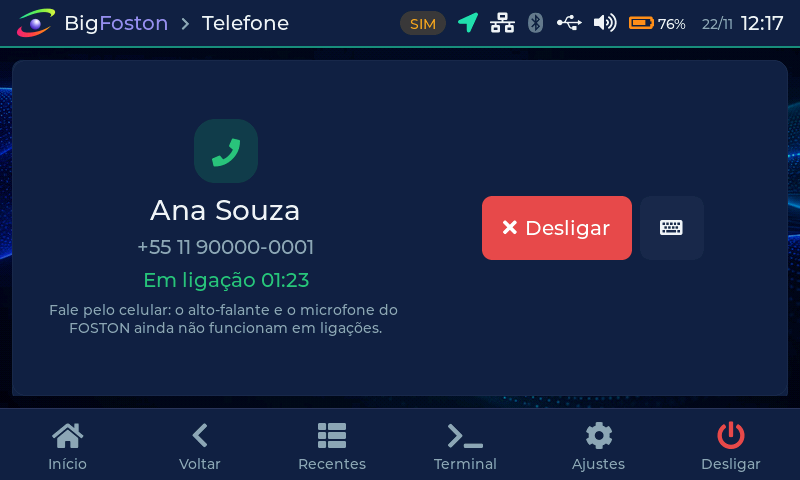
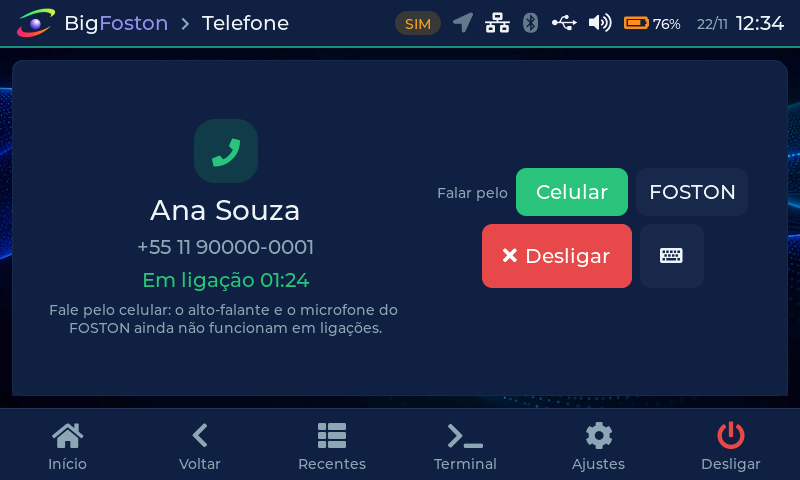
Telefone: chamadas reconhecidas (":OK" do BlueALSA) e escolha da voz
- bfphone: o BlueALSA repassa as respostas finais como ":OK"; sem aceitar o prefixo a
  lista de chamadas (AT+CLCC) nunca era confirmada e a ligação não aparecia no FOSTON.
- Painel da ligação: "Falar pelo Celular | FOSTON". O FOSTON tem microfone e
  alto-falante, mas a voz passa pelo DSP, ainda não portado; o bfphone informa
  voice_foston=0 e o app explica em vez de deixar a ligação muda.
- docs/phone/02: mapa de memória do DSP e protocolo da caixa postal do wavedev_drv.

Testado com uma ligação real: a chamada aparece com o nome da agenda; ao reconectar no
meio da ligação o celular abriu o canal de voz duas vezes e a voz ficou no celular.

Changed region(s): [[0.5312, 0.3438, 0.9375, 0.625], [0.4688, 0.0312, 1.0, 0.0625], [0.1875, 0.5625, 0.4062, 0.625]]

diff --git a/src/ui/screens/scr_phone.c b/src/ui/screens/scr_phone.c
@@ -28,7 +28,7 @@ enum { TAB_DIAL, TAB_CONTACTS, TAB_RECENTS, TAB_MSGS, NTABS };
 
 static lv_obj_t *root, *tabbar, *tab_btn[NTABS], *body, *status_lbl, *status2_lbl, *call_panel;
 static lv_obj_t *num_lbl, *search_ta, *search_kb, *list, *more_lbl, *sync_lbl;
-static lv_obj_t *cp_name, *cp_num, *cp_state, *cp_answer, *cp_keys, *cp_dtmf;
+static lv_obj_t *cp_name, *cp_num, *cp_state, *cp_answer, *cp_keys, *cp_dtmf, *cp_note, *cp_vphone, *cp_vfoston;
 static lv_timer_t *tick;
 static ph_info_t cur;
 static int tab;
@@ -561,6 +561,19 @@ static void on_answer(lv_event_t *e) { (void)e; ph_cmd("answer"); }
 static void on_hangup(lv_event_t *e) { (void)e; ph_cmd("hangup"); }
 static void on_dtmf(lv_event_t *e) { ph_cmd("dtmf %s", (const char *)lv_event_get_user_data(e)); }
 
+/* falar pelo celular ou pelo FOSTON (alto-falante e microfone do aparelho) */
+static void on_voice(lv_event_t *e)
+{
+    bool foston = lv_event_get_user_data(e) != NULL;
+    if(foston && !cur.voice_foston) {
+        const char *btns[] = { tr(S_CLOSE) };
+        dialog_open(BF_SYMBOL_INFO, lv_color_hex(C_PHONE), tr(S_PH_VOICE_FOSTON), tr(S_PH_VOICE_SOON), btns, 1, 0, -1,
+                    NULL, NULL);
+        return;
+    }
+    ph_cmd("voice %s", foston ? "foston" : "phone");
+}
+
 static void on_keys(lv_event_t *e)
 {
     (void)e;
@@ -588,15 +601,30 @@ static void build_call_panel(void)
     lv_obj_set_style_text_align(cp_name, LV_TEXT_ALIGN_CENTER, 0);
     cp_num = bf_label(left, "", BF_FONT_M, p->text_dim);
     cp_state = bf_label(left, "", BF_FONT_M, lv_color_hex(C_PHONE));
-    lv_obj_t *note = bf_label(left, tr(S_PH_VOICE_NOTE), BF_FONT_S, p->text_dim);
-    lv_obj_set_width(note, 370);
-    lv_label_set_long_mode(note, LV_LABEL_LONG_WRAP);
-    lv_obj_set_style_text_align(note, LV_TEXT_ALIGN_CENTER, 0);
+    cp_note = bf_label(left, tr(S_PH_VOICE_NOTE), BF_FONT_S, p->text_dim);
+    lv_obj_set_width(cp_note, 370);
+    lv_label_set_long_mode(cp_note, LV_LABEL_LONG_WRAP);
+    lv_obj_set_style_text_align(cp_note, LV_TEXT_ALIGN_CENTER, 0);
     lv_obj_t *right = bf_plain(call_panel);
     lv_obj_set_size(right, 340, LV_SIZE_CONTENT);
     lv_obj_set_flex_flow(right, LV_FLEX_FLOW_COLUMN);
     lv_obj_set_flex_align(right, LV_FLEX_ALIGN_CENTER, LV_FLEX_ALIGN_CENTER, LV_FLEX_ALIGN_CENTER);
     lv_obj_set_style_pad_row(right, BF_SP_S, 0);
+    lv_obj_t *vrow = bf_plain(right);
+    lv_obj_set_size(vrow, LV_PCT(100), LV_SIZE_CONTENT);
+    lv_obj_set_flex_flow(vrow, LV_FLEX_FLOW_ROW);
+    lv_obj_set_flex_align(vrow, LV_FLEX_ALIGN_CENTER, LV_FLEX_ALIGN_CENTER, LV_FLEX_ALIGN_CENTER);
+    lv_obj_set_style_pad_column(vrow, BF_SP_S, 0);
+    bf_label(vrow, tr(S_PH_TALK_ON), BF_FONT_S, p->text_dim);
+    cp_vphone = bf_button(vrow, NULL, tr(S_PH_TALK_PHONE), 0);
+    cp_vfoston = bf_button(vrow, NULL, "FOSTON", 0);
+    for(lv_obj_t *b = cp_vphone; b; b = b == cp_vphone ? cp_vfoston : NULL) {
+        lv_obj_set_size(b, 112, 48);
+        lv_obj_set_style_min_height(b, 0, 0);
+        lv_obj_set_style_bg_color(b, lv_color_hex(C_PHONE), LV_STATE_CHECKED);
+        lv_obj_set_style_text_color(b, lv_color_white(), LV_STATE_CHECKED);
+        lv_obj_add_event_cb(b, on_voice, LV_EVENT_CLICKED, b == cp_vfoston ? (void *)1 : NULL);
+    }
     cp_dtmf = keypad(right, on_dtmf, 96, 44);
     lv_obj_add_flag(cp_dtmf, LV_OBJ_FLAG_HIDDEN);
     lv_obj_t *btns = bf_plain(right);
@@ -645,6 +673,11 @@ static void update_call(void)
         if(c->stat == PH_ACTIVE) lv_obj_remove_flag(cp_keys, LV_OBJ_FLAG_HIDDEN);
         else { lv_obj_add_flag(cp_keys, LV_OBJ_FLAG_HIDDEN); lv_obj_add_flag(cp_dtmf, LV_OBJ_FLAG_HIDDEN); }
     }
+    /* escolha da voz: marca a opção atual */
+    bool on_foston = !cur.voice_phone && cur.voice_foston;
+    if(on_foston) { lv_obj_add_state(cp_vfoston, LV_STATE_CHECKED); lv_obj_remove_state(cp_vphone, LV_STATE_CHECKED); }
+    else { lv_obj_add_state(cp_vphone, LV_STATE_CHECKED); lv_obj_remove_state(cp_vfoston, LV_STATE_CHECKED); }
+    set_text(cp_note, tr(on_foston ? S_PH_VOICE_ON_FOSTON : S_PH_VOICE_NOTE));
     char b[64];
     switch(c->stat) {
     case PH_ACTIVE: {
@@ -778,6 +811,7 @@ const bf_screen_def_t scr_phone_def = { create, destroy, S_APP_PHONE, NULL };
 /* modo --screenshot: abre uma aba */
 void scr_phone_demo(int t)
 {
+    if(t == 10 && cp_vfoston) { lv_obj_send_event(cp_vfoston, LV_EVENT_CLICKED, NULL); return; }
     if(t < 0 || t >= NTABS || !root) return;
     tab = t;
     build_tab();

diff --git a/src/bt/bfphone.c b/src/bt/bfphone.c
@@ -45,6 +45,7 @@
 #define DATADIR  "/mnt/sd/BigFoston/telefone"
 #define HFP_AG   "0000111f-0000-1000-8000-00805f9b34fb"
 #define MAXCALLS 6
+#define VOICE_FOSTON_OK 0                /* 1 quando o caminho de voz do DSP existir */
 
 /* ------------------------------------------------------------------ estado */
 
@@ -91,7 +92,9 @@ static void write_state(void)
     }
     if(st.op[0]) fprintf(f, "operator=%s\n", st.op);
     fprintf(f, "signal=%d\nbattery=%d\nservice=%d\nroam=%d\n", st.signal, st.battery, st.service, st.roam);
-    fprintf(f, "voice=%s\nsco=%d\n", st.voice_phone ? "phone" : "foston", st.sco);
+    /* voice_foston: o FOSTON sabe tocar a voz e captar o microfone (falta o caminho do DSP:
+     * docs/phone/02-audio-da-chamada.md); até lá a voz fica no celular */
+    fprintf(f, "voice=%s\nvoice_foston=%d\nsco=%d\n", st.voice_phone ? "phone" : "foston", VOICE_FOSTON_OK, st.sco);
     for(int i = 0; i < st.ncall; i++)
         fprintf(f, "call=%d|%d|%d|%s|%s\n", st.call[i].idx, st.call[i].dir, st.call[i].stat, st.call[i].num,
                 st.call[i].name);
@@ -292,6 +295,8 @@ static void on_ind(int pos, int v)
 
 static void on_line(char *l)
 {
+    /* o BlueALSA repassa as respostas finais com ':' na frente (":OK", ":ERROR") */
+    while(*l == ':' || *l == ' ') l++;
     if(!strncmp(l, "+CLCC:", 6)) {
         if(nnew >= MAXCALLS) return;
         call_t *c = &newcall[nnew];
@@ -556,6 +561,8 @@ static void command(char *l)
     if(arg) *arg++ = 0;
     if(!strcmp(l, "voice") && arg) {
         st.voice_phone = strcmp(arg, "foston") != 0;
+        /* "foston-teste" deixa o canal de voz aberto mesmo sem o DSP (diagnóstico) */
+        if(!st.voice_phone && !VOICE_FOSTON_OK && strcmp(arg, "foston-teste")) st.voice_phone = 1;
         write_state();
         return;
     }

diff --git a/src/ui/core/phonestat.c b/src/ui/core/phonestat.c
@@ -51,6 +51,7 @@ void ph_read(ph_info_t *p)
         else if(!strcmp(line, "service")) p->service = atoi(v);
         else if(!strcmp(line, "voice")) p->voice_phone = strcmp(v, "foston") != 0;
         else if(!strcmp(line, "sco")) p->sco = atoi(v);
+        else if(!strcmp(line, "voice_foston")) p->voice_foston = atoi(v);
         else if(!strcmp(line, "since")) p->since = (time_t)atol(v);
         else if(!strcmp(line, "sync")) snprintf(p->sync, sizeof p->sync, "%s", v);
         else if(!strcmp(line, "call") && p->ncall < PH_MAXCALLS) {

diff --git a/src/ui/core/screenshot.c b/src/ui/core/screenshot.c
@@ -311,6 +311,8 @@ int screenshot_run(const char *dir)
             pf = fopen(pp, "a");
             if(pf) { fprintf(pf, "call=1|0|0|+55 11 90000-0001|Ana Souza\nsince=%ld\n", (long)time(NULL) - 83); fclose(pf); }
             pump(800); shot("45e-telefone-ligacao");
+            scr_phone_demo(10); pump(300); shot("45g-telefone-falar-pelo-foston");
+            dialog_close_all();
             go(SCR_HOME, 0); pump(100);
             pf = fopen(pp, "w");
             if(pf) {

diff --git a/src/ui/core/phonestat.h b/src/ui/core/phonestat.h
@@ -18,6 +18,7 @@ typedef struct {
     char dev[64], op[48], data[96];   /* nome do celular, operadora, pasta dos dados no cartão */
     int signal, battery, service;     /* 0-5 / 0-5 / 0-1; -1 = desconhecido */
     bool voice_phone, sco;
+    bool voice_foston;                /* o FOSTON já sabe fazer a voz da ligação */
     ph_call_t call[PH_MAXCALLS];
     int ncall;
     time_t since;                     /* início da ligação ativa (0 = nenhuma) */

diff --git a/docs/phone/00-visao-geral.md b/docs/phone/00-visao-geral.md
@@ -13,6 +13,8 @@ histórico e as mensagens podem ser importados do celular.
 |---|---|---|
 | ![Mensagens](../images/ui/45d-telefone-mensagens.png) | ![Ligação](../images/ui/45e-telefone-ligacao.png) | ![Recebida](../images/ui/45f-telefone-chamada-recebida.png) |
 
+![Falar pelo FOSTON](../images/ui/45g-telefone-falar-pelo-foston.png)
+
 (Capturas do simulador, com nomes e números inventados.)
 
 ## Estado (22/11/2026, POCO X4 Pro 5G)
@@ -21,13 +23,15 @@ histórico e as mensagens podem ser importados do celular.
 |---|---|
 | Canal de chamadas (HFP 1.6, o FOSTON é o Hands-Free) | **funcionando**: conecta sozinho com o celular |
 | Sinal, bateria, operadora do celular | **funcionando** (`+CIND`, `+COPS`) |
-| Chamadas: estado, número, nome | **funcionando** (`AT+CLCC`; nome pela agenda importada) |
-| Discar, rediscar, atender, recusar/desligar, DTMF | implementado (`ATD`, `AT+BLDN`, `ATA`, `AT+CHUP`, `AT+VTS`); falta o teste com uma ligação real |
+| Chamadas: estado, número, nome | **funcionando** com uma ligação real (`AT+CLCC`; nome pela agenda importada) |
+| Discar, rediscar, atender, recusar/desligar, DTMF | implementado (`ATD`, `AT+BLDN`, `ATA`, `AT+CHUP`, `AT+VTS`) |
+| Voz mantida no celular | **funcionando**: ao reconectar no meio da ligação o celular abriu o canal de voz duas vezes e o FOSTON desfez as duas |
+| Escolha "Falar pelo: Celular / FOSTON" | no painel da ligação; FOSTON explica que falta o caminho do DSP (`voice_foston=0`) |
 | Aviso de chamada recebida em qualquer tela | implementado (simulador); falta o teste real |
 | Agenda (PBAP) | **funcionando**: 5363 contatos em ~1 min |
 | Histórico de chamadas (PBAP) | **funcionando** |
 | Mensagens SMS (MAP) | implementado; o POCO responde "serviço indisponível" (0xD3) até que o acesso às mensagens seja permitido no celular |
-| **Voz da ligação no FOSTON** | **não**: a voz fica no celular (ver [02-audio-da-chamada.md](02-audio-da-chamada.md)) |
+| **Voz da ligação no FOSTON** | **não**: o aparelho tem microfone e alto-falante, mas a voz passa pelo DSP, ainda não portado (ver [02-audio-da-chamada.md](02-audio-da-chamada.md)) |
 
 ## Arquitetura
 
@@ -50,12 +54,17 @@ celular (AG) ──HFP/RFCOMM── BlueALSA (-p hfp-hf) ──RFCOMM1.Open (D-B
 | `src/ui/core/phonestat.c` | leitura do estado, comandos e o aviso global de chamada recebida |
 | `src/ui/screens/scr_phone.c` | o app: Discador, Contatos (busca), Recentes, Mensagens e o painel da ligação |
 
+O BlueALSA repassa as respostas finais do celular com `:` na frente (`:OK`, `:ERROR`); o
+`bfphone` as aceita assim (sem isso a lista de chamadas nunca era confirmada).
+
 O `bfphone` consulta `AT+CLCC` a cada 5 s parado e a cada 1 s com chamada, e logo depois de
 `RING`, `+CIEV` ou `+CLIP`. Indicadores e operadora são relidos a cada 30 s. Se o celular
 conectar só o A2DP, o `bfphone` pede o HFP uma vez (`Device1.ConnectProfile`).
 
 Comandos (`echo ... > /run/bigfoston-phone.cmd`): `dial NÚMERO`, `redial`, `answer`, `hangup`,
-`dtmf C`, `voice phone|foston`, `sync`, `erase`.
+`dtmf C`, `voice phone|foston`, `sync`, `erase`. `voice foston` só vale quando o firmware tiver
+a voz do DSP (`voice_foston=1`); `voice foston-teste` deixa o canal de voz aberto para
+diagnóstico (a ligação fica muda).
 
 ## Privacidade
 

diff --git a/docs/phone/02-audio-da-chamada.md b/docs/phone/02-audio-da-chamada.md
@@ -39,10 +39,25 @@ Tudo na cópia local da ROM (`backup/wince-referencia`, fora do git):
    `speech_via_BT`, `Input_Data_from_BT` e `Speech_Via_loudspeaker` confirmam o caminho
    MT6611 → PCM → DSP → alto-falante, e microfone → DSP → PCM → MT6611.
 
+## Mapa de memória do DSP (do `wavedev_drv`, rotinas em `0x03C17444` e `0x03C166DC`)
+
+| Físico | Tamanho mapeado | Uso provável |
+|---|---|---|
+| `0x8004F000` | 0x50 | controle do DSP |
+| `0xA0000000` | 0x1A0 | caixa postal ARM↔DSP: o driver espera `0x5555`, escreve `0x6666`, passa 22 blocos de parâmetros (`0xA5xx`/`0x5Axx`), espera `0x1111` e responde `0x2222` (rotina `0x03C17F18`) |
+| `0x80051000` | 4 KB | janela de dados |
+| `0xA2000000`, `0xA2010000` | 64 KB cada | memória do DSP (bancos 0 e 1) |
+| `0xA2100000`, `0xA2200000` | 32 KB cada | memória do DSP |
+| `0x8004D000` | 0x15C | front-end de voz (ADC do microfone, DAC de voz); o mesmo bloco da rotina de teste de fábrica do microfone |
+| `0x80001000` | 0x400 | clocks e energia (ids 37, 42, 43, 45 ligados para a voz) |
+
+A caixa postal mostra que o DSP roda um programa próprio e conversa com o ARM: o Linux terá
+de iniciá-lo (ou encontrá-lo já rodando depois do CE) e repetir esse diálogo.
+
 ## O que falta para a voz no FOSTON
 
-1. Achar os endereços físicos das janelas de memória do DSP (o driver as recebe mapeadas;
-   procurar o `VirtualCopy`/`MmMapIoSpace` da inicialização do `wavedev_drv`).
+1. Ler, só dentro dessas janelas e com os clocks do CE ligados, o estado do DSP depois do boot
+   pelo CE (sem ligação aberta: um acesso errado já travou o aparelho uma vez).
 2. Descobrir se o DSP precisa de código carregado pelo ARM (o `.text` do `wavedev_drv` tem
    313 KB, grande o bastante para conter imagens do DSP) e como ele é iniciado.
 3. Reproduzir no driver ALSA `mt3351-audio` a sequência do `MM_GSMPCM_2WAY_START` (só
